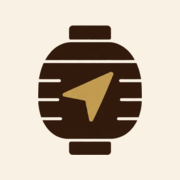
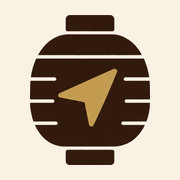
共有時のアイコンをPCのファビコンと同じ提灯にそろえる
iPhoneの共有シートは og:image が無いとページ内の画像(日本地図イラスト)を
代わりに表示していたため、PCのファビコンと同じアイボリー地の提灯アイコンを
共有用画像として全ページに指定する。ホーム画面用アイコンも同じ原画から作り直す。

Changed region(s): [[0.1667, 0.0833, 0.8333, 0.9167], [0.4444, 0.4444, 0.5, 0.4722]]

diff --git a/app/shindan/[type]/page.tsx b/app/shindan/[type]/page.tsx
@@ -10,6 +10,7 @@ import {
   matchVenues,
   shindanCandidates,
 } from "@/lib/shindan";
+import { SHARE_IMAGE } from "@/lib/share";
 
 // 診断結果のシェア先。タイプごとに静的ページを書き出す(output: "export")。
 export function generateStaticParams() {
@@ -27,7 +28,14 @@ export function generateMetadata({
   return {
     title,
     description: `${type.catch}${type.description}`,
-    openGraph: { title, description: type.catch, locale: "ja_JP", type: "website" },
+    // openGraphは親(layout)と丸ごと差し替わるため、共有用画像もここで指定し直す
+    openGraph: {
+      title,
+      description: type.catch,
+      locale: "ja_JP",
+      type: "website",
+      images: [SHARE_IMAGE],
+    },
   };
 }
 

diff --git a/lib/share.ts b/lib/share.ts
@@ -1,0 +1,15 @@
+import { withBase } from "./basePath";
+
+/** 公開サイトのオリジン(GitHub Pages)。og:image は絶対URLで書く必要があるため。 */
+export const SITE_ORIGIN = "https://korakutei.github.io";
+
+/**
+ * 共有用画像(og:image)。PCのファビコン(app/icon.png)と同じ、アイボリー地の提灯アイコン。
+ * 未指定だと、iPhoneの共有シートなどがページ内の画像(日本地図イラスト)を勝手に代わりに使ってしまう。
+ */
+export const SHARE_IMAGE = {
+  url: `${SITE_ORIGIN}${withBase("/images/brand/share-icon.png")}`,
+  width: 600,
+  height: 600,
+  alt: "ヨコチョナビ",
+};

diff --git a/app/layout.tsx b/app/layout.tsx
@@ -1,6 +1,7 @@
 import type { Metadata, Viewport } from "next";
 import SiteHeader from "@/components/SiteHeader";
 import BottomNav from "@/components/BottomNav";
+import { SHARE_IMAGE } from "@/lib/share";
 import "./globals.css";
 
 export const metadata: Metadata = {
@@ -15,6 +16,7 @@ export const metadata: Metadata = {
       "今夜行ける横丁を探す入口。全国の横丁の「今」を毎朝更新して届けるメディア・プロトタイプ。",
     locale: "ja_JP",
     type: "website",
+    images: [SHARE_IMAGE],
   },
 };
 
